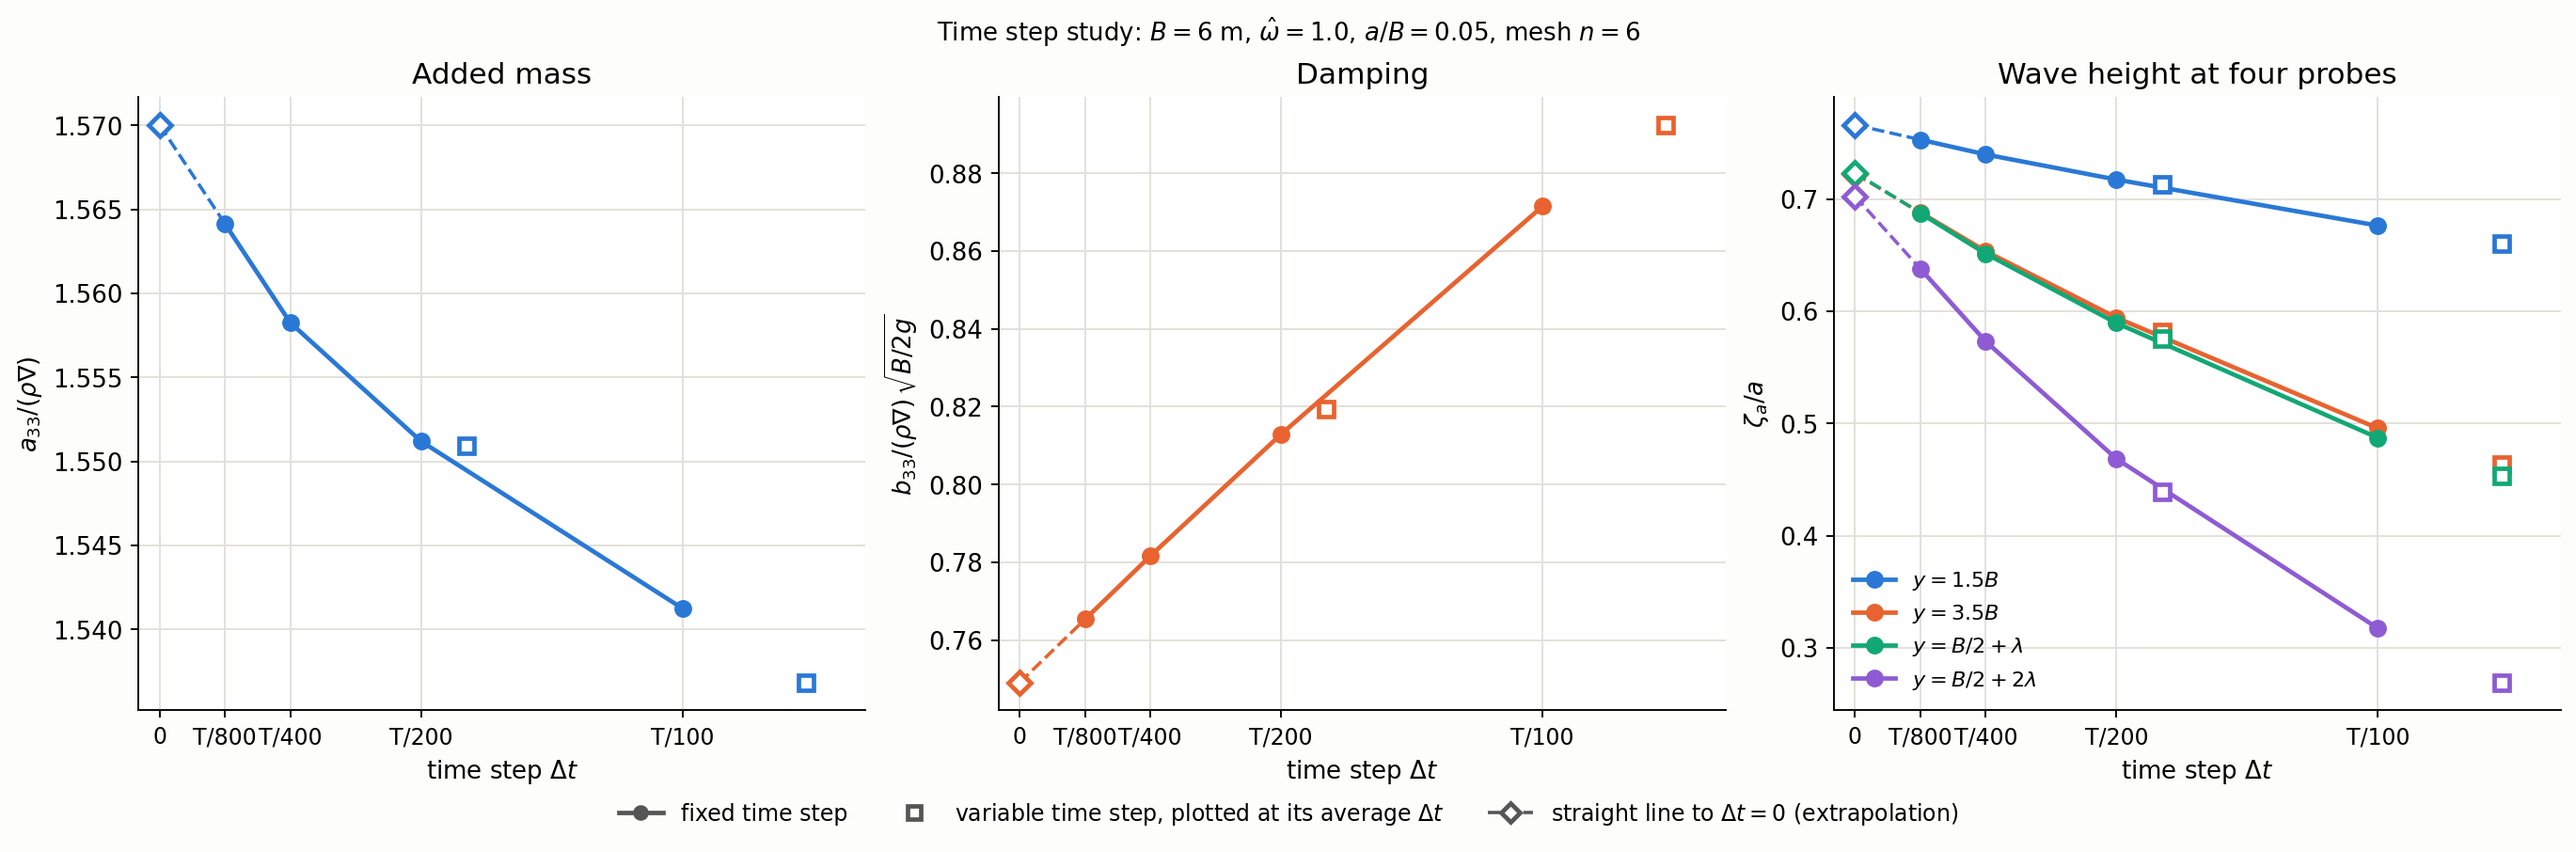
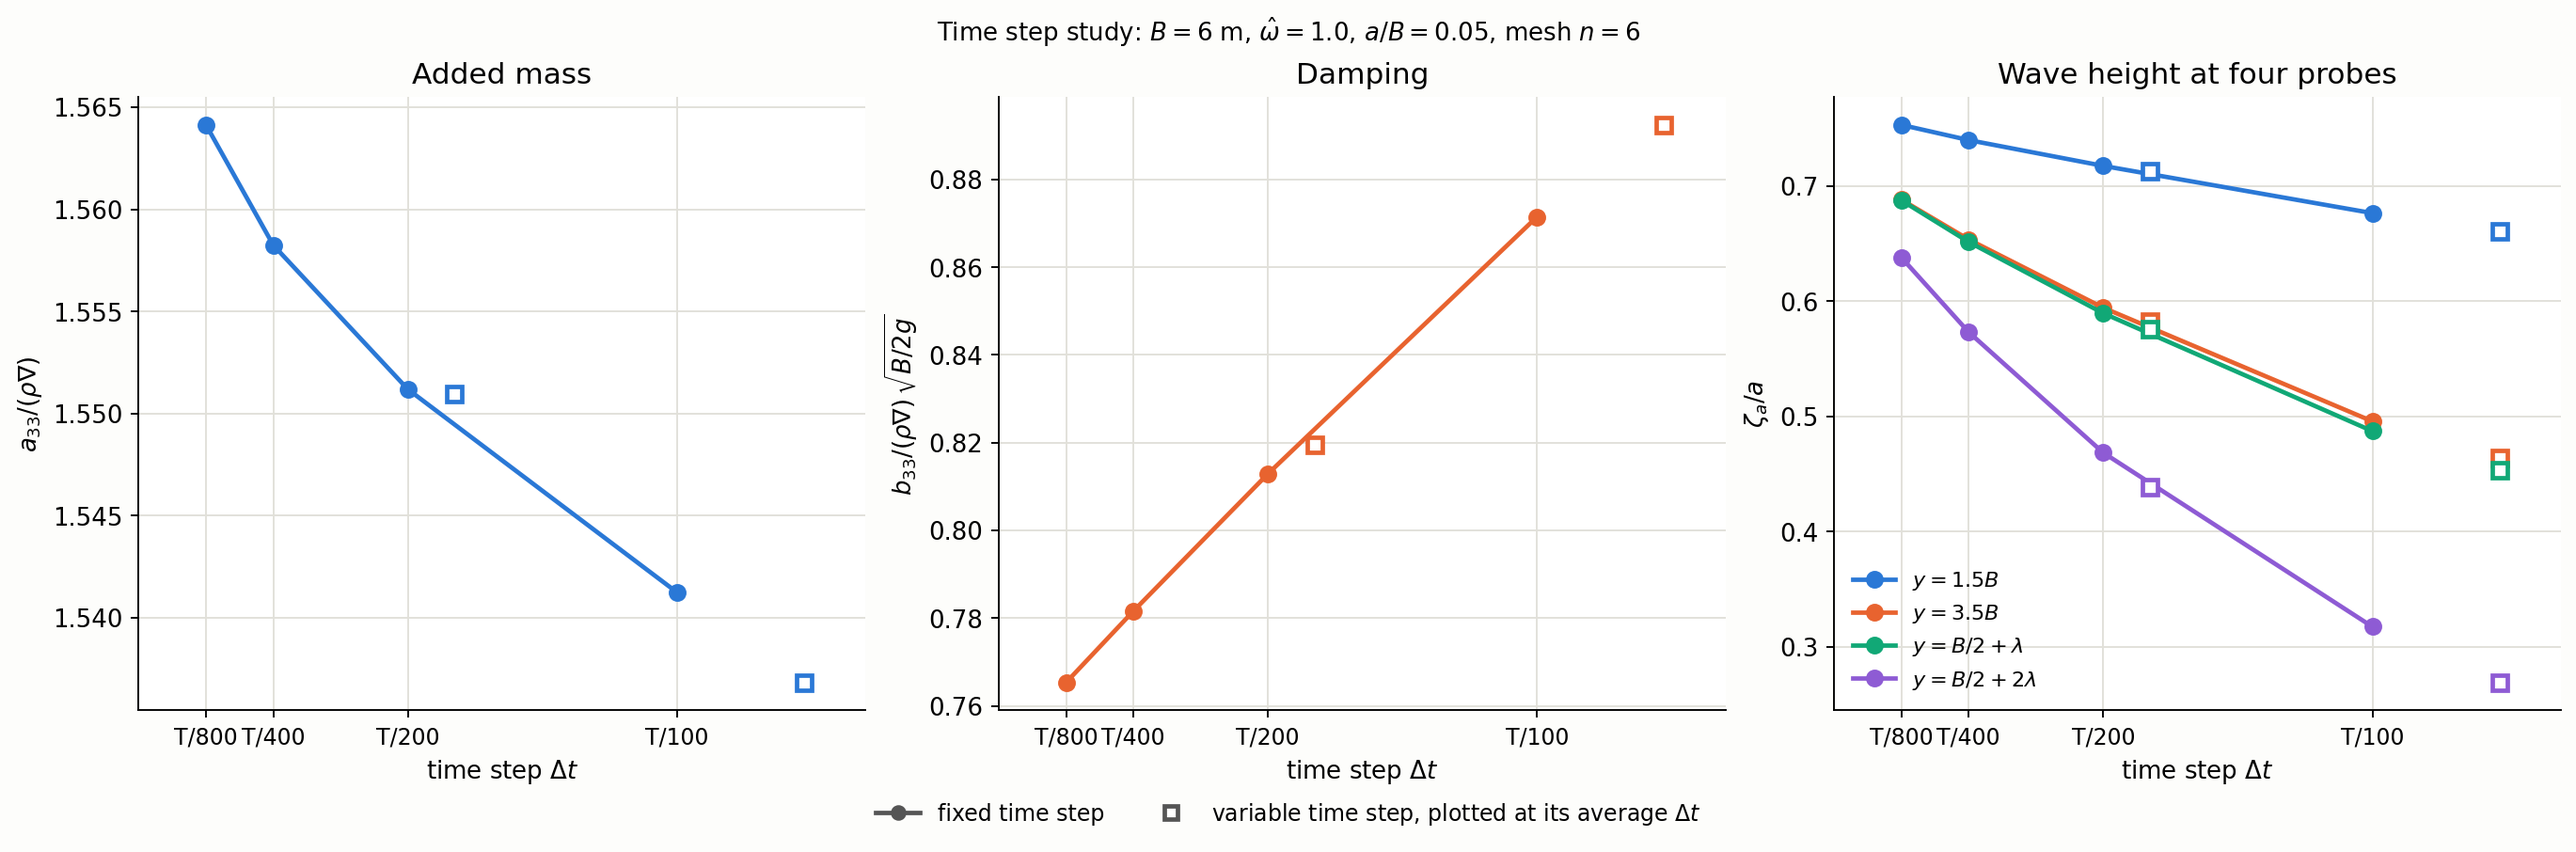
Time step page: remove extrapolation, note missing probes

diff --git a/timestep.html b/timestep.html
@@ -109,7 +109,7 @@
 <p>The Courant number is a stability limit and does not say how large the time error is. The number of steps per period is not fixed, and &Delta;t can become large when the velocities are low.</p>
 </section>
 <section class="req" id="r3"><h2>Section 3: Convergence plots <span class="tag built">built</span></h2><p class="quote">Produce convergence plots / compare the results</p><p><span class="dot done"></span>Status: Done</p>
-<p>The figure shows the added mass, the damping and the wave height for the four fixed time steps (<a href="#fig-values">Figure 3</a>) and the values are in <a href="#tab-values">Table 4</a>. The x axis is the time step, so the limit of a very small time step is at the left edge. The squares are the variable time step runs, placed at their average &Delta;t. The dashed line is a straight line through the two finest steps, continued to &Delta;t = 0.</p>
+<p>The figure shows the added mass, the damping and the wave height for the four fixed time steps (<a href="#fig-values">Figure 3</a>) and the values are in <a href="#tab-values">Table 4</a>. The x axis is the time step, so the limit of a very small time step is at the left edge. The squares are the variable time step runs, placed at their average &Delta;t.</p>
 <figure id="fig-values">
 <img src="assets/ts_values.png" alt="A33, B33 and wave height against the time step">
 <figcaption><b>Figure 3.</b> Added mass, damping and wave height against the time step (B = 6 m, &omega;&#770; = 1.0, a/B = 0.05, mesh n = 6). The four probes are at y = 1.5B, 3.5B, B/2 + &lambda; and B/2 + 2&lambda;.</figcaption></figure>
@@ -120,7 +120,6 @@
 <tr><td>T/200</td><td class="num">1.551</td><td class="num">0.813</td><td class="num">0.717</td><td class="num">0.594</td><td class="num">0.590</td><td class="num">0.469</td></tr>
 <tr><td>T/400</td><td class="num">1.558</td><td class="num">0.782</td><td class="num">0.740</td><td class="num">0.654</td><td class="num">0.651</td><td class="num">0.573</td></tr>
 <tr><td>T/800</td><td class="num">1.564</td><td class="num">0.765</td><td class="num">0.753</td><td class="num">0.688</td><td class="num">0.688</td><td class="num">0.638</td></tr>
-<tr class="hl"><td>Extrapolated (&Delta;t &rarr; 0)</td><td class="num">1.570</td><td class="num">0.749</td><td class="num">0.766</td><td class="num">0.723</td><td class="num">0.724</td><td class="num">0.703</td></tr>
 <tr><td>Variable, maxCo 0.25 (T/170)</td><td class="num">1.551</td><td class="num">0.819</td><td class="num">0.713</td><td class="num">0.582</td><td class="num">0.576</td><td class="num">0.439</td></tr>
 <tr><td>Variable, maxCo 0.5 (T/81)</td><td class="num">1.537</td><td class="num">0.892</td><td class="num">0.660</td><td class="num">0.464</td><td class="num">0.454</td><td class="num">0.269</td></tr>
 </tbody></table>
@@ -129,8 +128,7 @@
 <ul>
 <li>A33* changes by less than 2 % over the whole range.</li>
 <li>B33* and the waves depend much more on the time step. When &Delta;t is divided by 8, B33* falls by 12 % and the wave at B/2 + 2&lambda; doubles (0.318 to 0.638).</li>
-<li>B33* follows a straight line in &Delta;t. The changes are 0.059, 0.031 and 0.016, which halve each time, as for a scheme that is first order in time (Euler). The extrapolated value is 0.749, and T/800 is 2 % above it.</li>
-<li>The waves do not halve their changes (0.151, 0.104 and 0.065 at B/2 + 2&lambda;; they shrink by a factor of about 1.5). The straight line value 0.70 is therefore probably too low, and the wave at B/2 + 2&lambda; is still more than 9 % below the limit at T/800.</li>
+<li>The changes in the damping halve for each halving of &Delta;t (0.059, 0.031 and 0.016). The waves change more slowly (0.151, 0.104 and 0.065 at B/2 + 2&lambda;) and are not converged at T/800: the wave at B/2 + 2&lambda; still changes by 11 % between T/400 and T/800.</li>
 <li>The variable time step runs lie close to the fixed time step curves when they are plotted at their average &Delta;t. A Courant limit gives about the same accuracy as a fixed &Delta;t of the same average size.</li>
 </ul>
 <p>The probes in these runs are at 1.5B, 3.5B, B/2 + &lambda; and B/2 + 2&lambda;. The probes at 2.5B and 5.5B are only in the main study.</p>
